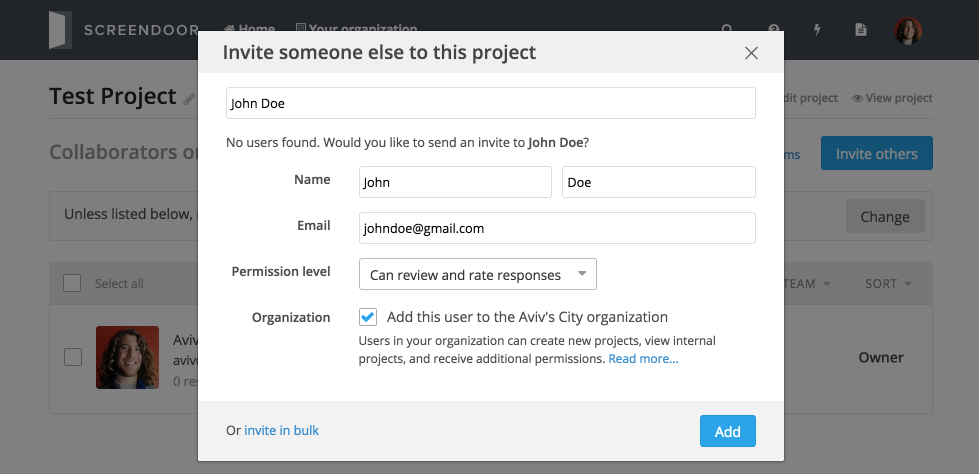
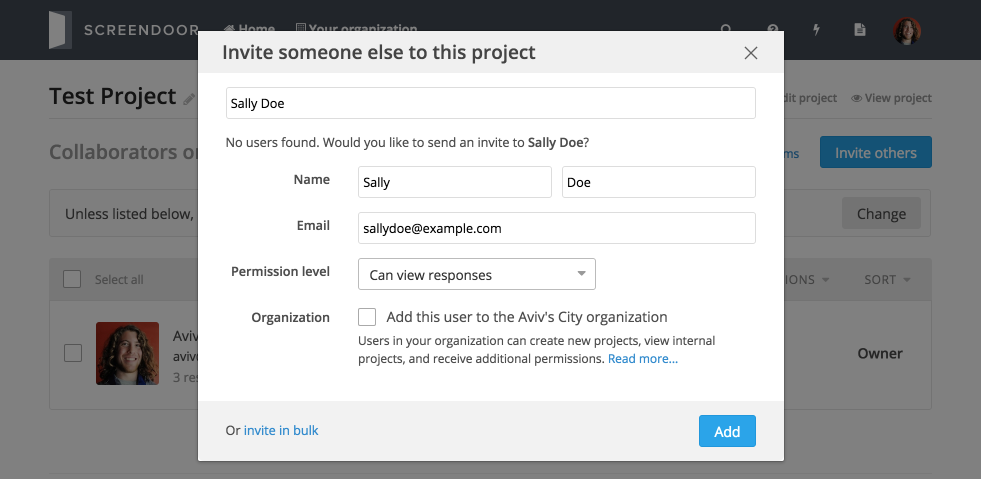
Deploy (via Grunt)

diff --git a/articles/screendoor/projects/collaborators.html b/articles/screendoor/projects/collaborators.html
@@ -33,7 +33,7 @@ If the person you are searching for is already registered and part of your organ
 <h2 id="allowing-all-organization-members-to-collaborate">Allowing all organization members to collaborate</h2>
 <p>If you want to allow individuals who are already members of your organization (but have not been added as collaborators to your project) to collaborate, click “Change,” select the appropriate permission level, and click “Save.” This way, you don’t have to manually add everyone who is already a part of your organization every time you create a new project.</p>
 <p><img src="/articles/screendoor/images/organization_permissions.png" alt="organization permissions"></p>
-<p>This will allow all members of your organization to collaborate, and give them the selected permission level.</p>
+<p>This will allow all members of your organization to collaborate, and give them the selected permission level by default.</p>
 <h2 id="assigning-permissions-to-collaborators">Assigning permissions to collaborators</h2>
 <p>You can always go back and change permissions for a collaborator after you have added them. Simply select the new permissions level you wish to give a collaborator from the dropdown next to their name and email address on the “Collaborators” page.</p>
 <p><img src="/articles/screendoor/images/assign_collaborator_permissions.png" alt="assign collaborator permissions"></p>
@@ -41,7 +41,9 @@ If the person you are searching for is already registered and part of your organ
 <ul>
 <li><p><strong>Can view responses</strong>: View-only users can see responses, no more.</p>
 </li>
-<li><p><strong>Can review and rate responses</strong>: Reviewers can view, comment on, and rate responses. They can also change the status, add labels, and assign users to a response.</p>
+<li><p><strong>Can review assigned responses</strong>: Users can review and rate responses assigned to them. They can’t assign statuses or labels to responses.</p>
+</li>
+<li><p><strong>Can review, label, assign all responses</strong>: Users can view, comment on, and rate responses. They can also change the status, add labels, and assign users to a response.</p>
 </li>
 <li><p><strong>Administrator</strong>: Administrators have all permissions.</p>
 </li>
